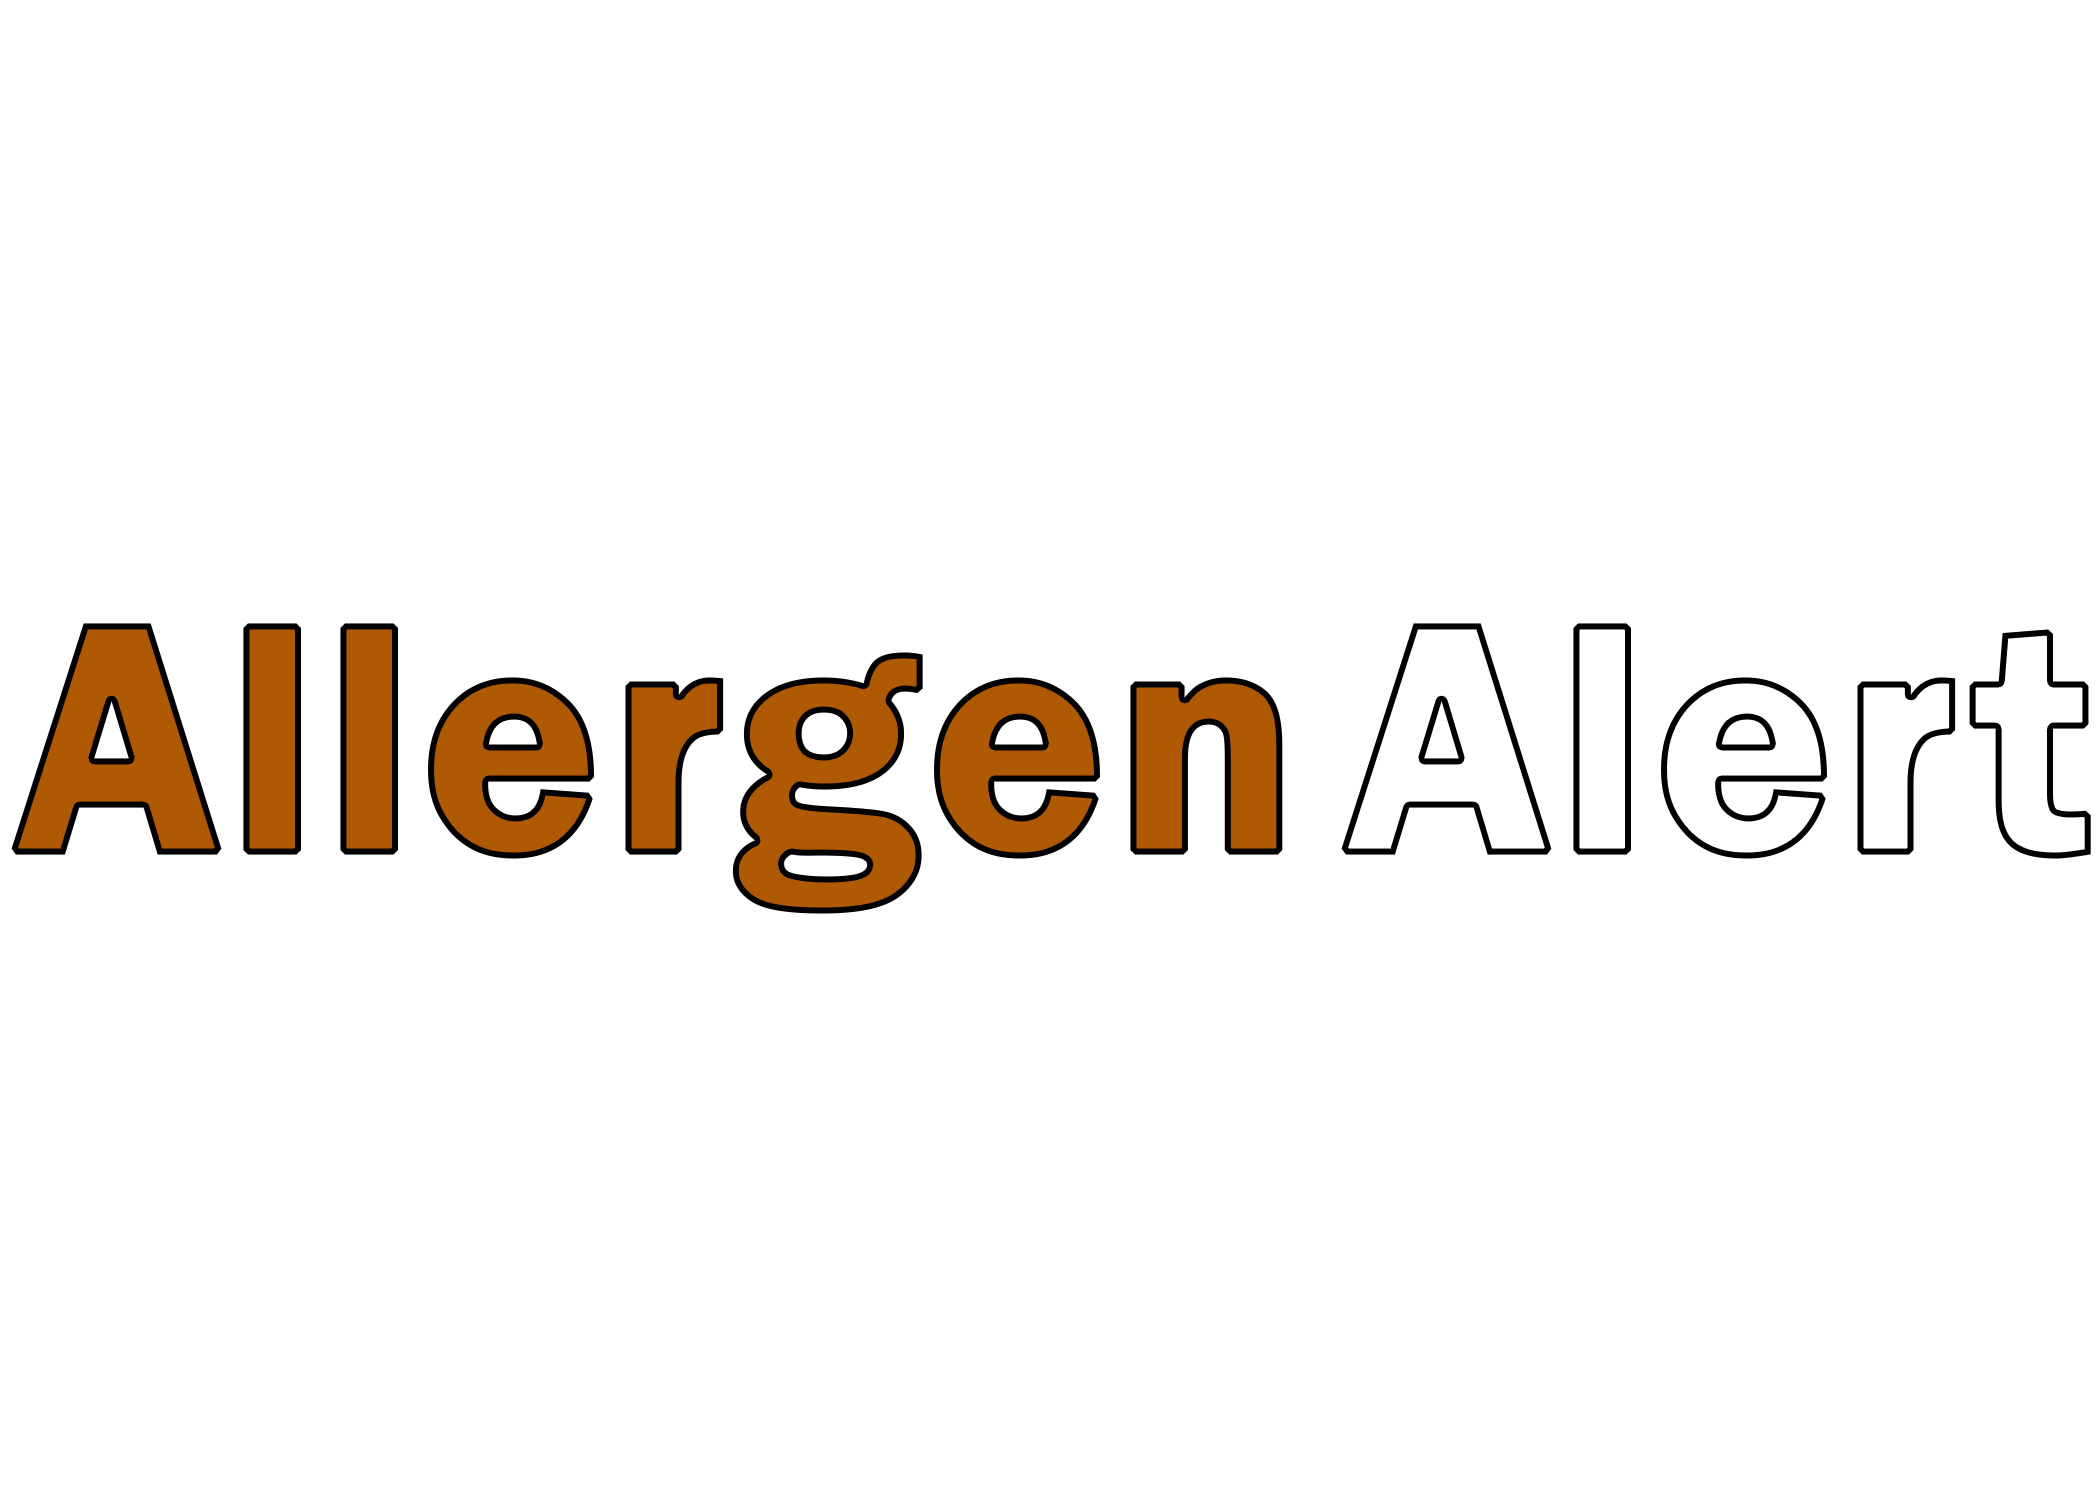
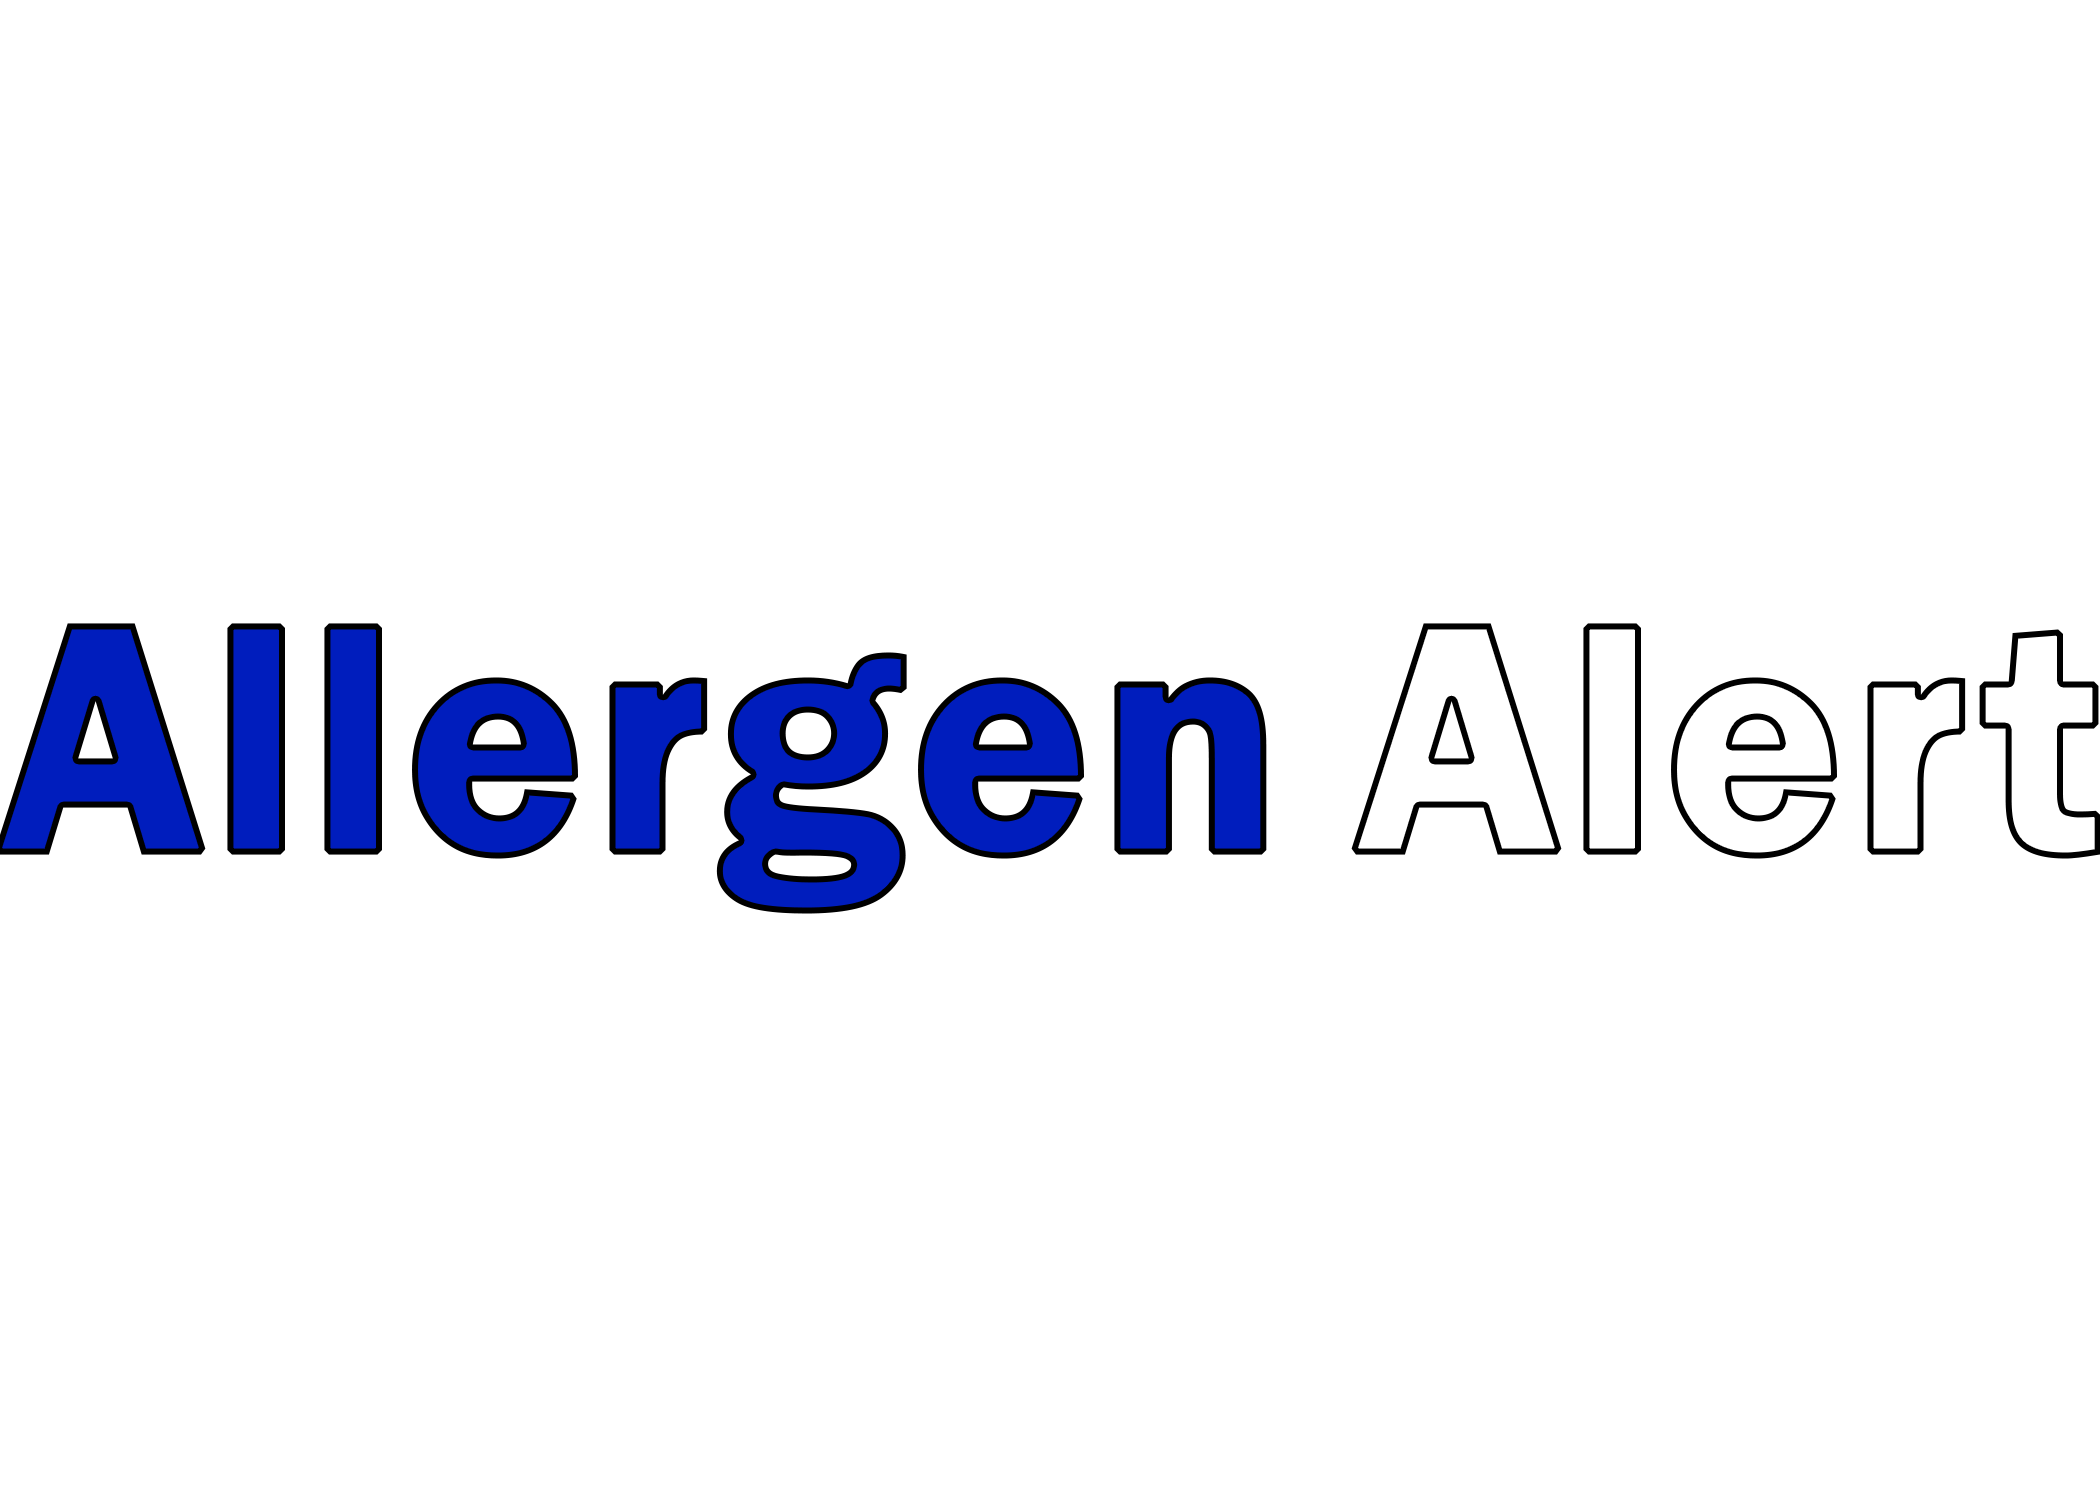
Added a code verification screen

Changed region(s): [[0.0, 0.3987, 1.0, 0.6133]]

diff --git a/src/screens/auth/ChangePass.js b/src/screens/auth/ChangePass.js
@@ -1,29 +1,29 @@
-import React, { useContext, useEffect, useState } from 'react';
-import {ImageBackground, View, Text, Pressable, StyleSheet, ActivityIndicator, TextInput } from 'react-native';
-import LoadingButton from '../../components/LoadingButton';
+import React, { useContext, useState } from 'react';
+import {View, Text} from 'react-native';
 import TextLoadingButton from '../../components/TextLoadingButton';
 import { StyleConstants, Styles } from '../../style';
-import { useLogin } from '../../hooks/api';
 import { AuthContext } from '../../context';
 import FormTextInput from '../../components/FormTextInput';
 
 export default function ChangePass({navigation}) {
     const context = useContext(AuthContext);
 
-    const [email, setEmail] = useState();
+    const [email, setPass] = useState();
 
     function onReset() {
         navigation.navigate('Login');
     }
 
     return (
-        <View style={[Styles.container, ]}>
+        <View style={[Styles.container]}>
             <View style={{width: StyleConstants.FormWidth}}>
             <Text style={{textAlign: 'center', fontSize: 20, fontWeight: "bold"}}>Change your password</Text>
             <Text style={{textAlign: 'center', fontSize: 18, paddingTop: 20}}>Enter a new password that hasn't been used recently</Text>
-            <FormTextInput placeholder="Password" onChangeText={setEmail}/>
-            <FormTextInput placeholder="Confirm password" onChangeText={setEmail}/>
-            <TextLoadingButton style={{ marginTop: StyleConstants.FormItemTextSize }}text="Reset Password" onPress={onReset}/>
+            <FormTextInput placeholder="Password"/>
+            <FormTextInput placeholder="Confirm password" onChangeText={setPass}/>
+            </View>
+            <View style={{position: 'absolute', bottom:110, width: StyleConstants.FormWidth}}>
+                <TextLoadingButton style={{ marginTop: StyleConstants.FormItemTextSize }}text="Reset Password" onPress={onReset}/>
             </View>
         </View>
     );

diff --git a/src/screens/auth/ForgotPass.js b/src/screens/auth/ForgotPass.js
@@ -1,9 +1,7 @@
-import React, { useContext, useEffect, useState } from 'react';
-import {ImageBackground, View, Text, Pressable, StyleSheet, ActivityIndicator, TextInput } from 'react-native';
-import LoadingButton from '../../components/LoadingButton';
+import React, { useContext, useState } from 'react';
+import {View, Text} from 'react-native';
 import TextLoadingButton from '../../components/TextLoadingButton';
 import { StyleConstants, Styles } from '../../style';
-import { useLogin } from '../../hooks/api';
 import { AuthContext } from '../../context';
 import FormTextInput from '../../components/FormTextInput';
 
@@ -13,17 +11,18 @@ export default function ForgotPasss({navigation}) {
     const [email, setEmail] = useState();
 
     function onSend() {
-        navigation.navigate('ChangePass');
+        navigation.navigate('AuthCode');
     }
 
     return (
         <View style={Styles.container}>
             <View style={{width: StyleConstants.FormWidth}}>
             <Text style={{textAlign: 'center', fontSize: 20, fontWeight: "bold"}}>Forgot your password?</Text>
-            <Text style={{textAlign: 'center', fontSize: 18, paddingTop: 20}}>A password reset link will be sent to the account associated
-                with this email</Text>
+            <Text style={{textAlign: 'center', fontSize: 18, paddingTop: 20}}>Please enter the email you used to create your account.</Text>
             <FormTextInput placeholder="Email" onChangeText={setEmail}/>
-            <TextLoadingButton style={{ marginTop: StyleConstants.FormItemTextSize }}text="Send" onPress={onSend}/>
+            </View>
+            <View style={{position: 'absolute', bottom:110, width: StyleConstants.FormWidth}}>
+                <TextLoadingButton style={{ marginTop: StyleConstants.FormItemTextSize }}text="Send" onPress={onSend}/>
             </View>
         </View>
     );

diff --git a/src/screens/auth/AuthCode.js b/src/screens/auth/AuthCode.js
@@ -1,0 +1,31 @@
+import React, { useContext, useEffect, useState } from 'react';
+import {View, Text} from 'react-native';
+import TextLoadingButton from '../../components/TextLoadingButton';
+import { StyleConstants, Styles } from '../../style';
+import { AuthContext } from '../../context';
+import FormTextInput from '../../components/FormTextInput';
+
+export default function ForgotPasss({navigation}) {
+    const context = useContext(AuthContext);
+
+    const [email, setCode] = useState();
+
+    function onConfirm() {
+        navigation.navigate('ChangePass');
+    }
+
+    return (
+        <View style={Styles.container}>
+            <View style={{width: StyleConstants.FormWidth}}>
+            <Text style={{textAlign: 'center', fontSize: 20, fontWeight: "bold"}}>Verification</Text>
+            <Text style={{textAlign: 'center', fontSize: 18, paddingTop: 20}}>A verification code has been sent to the account associated
+                with this email</Text>
+            <FormTextInput placeholder="Enter code" onChangeText={setCode}/>
+            
+            </View>
+            <View style={{position: 'absolute', bottom:110, width: StyleConstants.FormWidth}}>
+                <TextLoadingButton style={{ marginTop: StyleConstants.FormItemTextSize }}text="Confirm" onPress={onConfirm}/>
+            </View>
+        </View>
+    );
+}

diff --git a/src/style.js b/src/style.js
@@ -2,16 +2,16 @@ import React, { useEffect, useState } from 'react';
 import {Image, View, Text, Pressable, StyleSheet, ActivityIndicator, TextInput } from 'react-native';
 
 const Colors = {
-    Foreground: '#01760c',
+    Foreground: '#001dbd',
     Accent: '#FFF',
-    AccentForeground: '#b05903',
-    Background: '#51d112',
+    AccentForeground: '#683604',
+    Background: '#0060ff',
     BackgroundBlur: '#444',
-    InputBorder: '#01760c',
+    InputBorder: '#0034f5',
     InputBackground: '#FFF',
-    Input: '#01760c',
-    ButtonBorder: '#7e4104',
-    ButtonBackground: '#b05903',
+    Input: '#0034f5',
+    ButtonBorder: '#683604',
+    ButtonBackground: '#cc6f04',
     Error: '#F44',
 };
 const StyleConstants = {
@@ -59,7 +59,6 @@ const Styles = StyleSheet.create({
         alignItems: 'center',
         justifyContent: 'center',
         borderColor: Colors.ButtonBorder,
-        backgroundColor: Colors.AccentForeground,
         elevation: 10, //Android
         shadowRadius: 5, //iOS
         shadowColor: 'black' //iOS
@@ -77,7 +76,7 @@ const Styles = StyleSheet.create({
         marginLeft: StyleConstants.Radius,
         fontSize: StyleConstants.FormItemTextSize,
         fontWeight: 'bold'
-    },
+    }
 });
 
 export { Colors, StyleConstants, Styles };

diff --git a/App.js b/App.js
@@ -10,6 +10,7 @@ import { Colors, StyleConstants } from './src/style';
 import CreateAccount from './src/screens/auth/CreateAccount';
 import ForgotPass from './src/screens/auth/ForgotPass';
 import ChangePass from './src/screens/auth/ChangePass';
+import AuthCode from './src/screens/auth/AuthCode';
 
 const HomeStack = createStackNavigator();
 function HomeStackScreen() {
@@ -28,6 +29,7 @@ function AuthStackScreen() {
             <AuthStack.Screen name="CreateAccount" component={CreateAccount} options={{title: "Back to login", headerTransparent: true}}/>
             <AuthStack.Screen name="ForgotPass" component={ForgotPass} options={{title: "", headerTransparent: true}}/>
             <AuthStack.Screen name="ChangePass" component={ChangePass} options={{title: "", headerTransparent: true}}/>
+            <AuthStack.Screen name="AuthCode" component={AuthCode} options={{title: "", headerTransparent: true}}/>
         </AuthStack.Navigator>
     )
 }

diff --git a/src/screens/auth/CreateAccount.js b/src/screens/auth/CreateAccount.js
@@ -28,8 +28,10 @@ export default function CreateAccount() {
                 <FormTextInput placeholder="Username" onChangeText={setUsername}/>
                 <FormTextInput placeholder="Email" onChangeText={setEmail}/>
                 <FormTextInput placeholder="Password" onChangeText={setPassword} />
-                <TextLoadingButton style={{ marginTop: StyleConstants.FormItemTextSize }}text="Log In" isLoading={login.loading} onPress={onSubmit} />
                 <Text style={[Styles.errorText, {alignSelf: 'center'}]}>{login.error}</Text>
+            </View>
+            <View style={{position: 'absolute', bottom:110, width: StyleConstants.FormWidth}}>
+                <TextLoadingButton style={{ marginTop: StyleConstants.FormItemTextSize }}text="Create Account" isLoading={login.loading} onPress={onSubmit} />
             </View>
         </View>
     );

diff --git a/src/components/LoadingButton.js b/src/components/LoadingButton.js
@@ -7,7 +7,7 @@ export default function LoadingButton({children, isLoading, onPress, style}) {
         <Pressable style={[Styles.button, style]} onPress={onPress}>
             {
                 isLoading
-                    ? <ActivityIndicator color={Colors.Foreground} size="large"/>
+                    ? <ActivityIndicator color={Colors.AccentForeground} size="large"/>
                     : children
             }
         </Pressable>

diff --git a/src/hooks/api.js b/src/hooks/api.js
@@ -71,3 +71,11 @@ export function useDummy(value) {
         return sleep(500).then(() => value);
     });
 }
+
+export function validateResetToken(token) {
+
+}
+
+export function resetPassword(token) {
+    
+}
